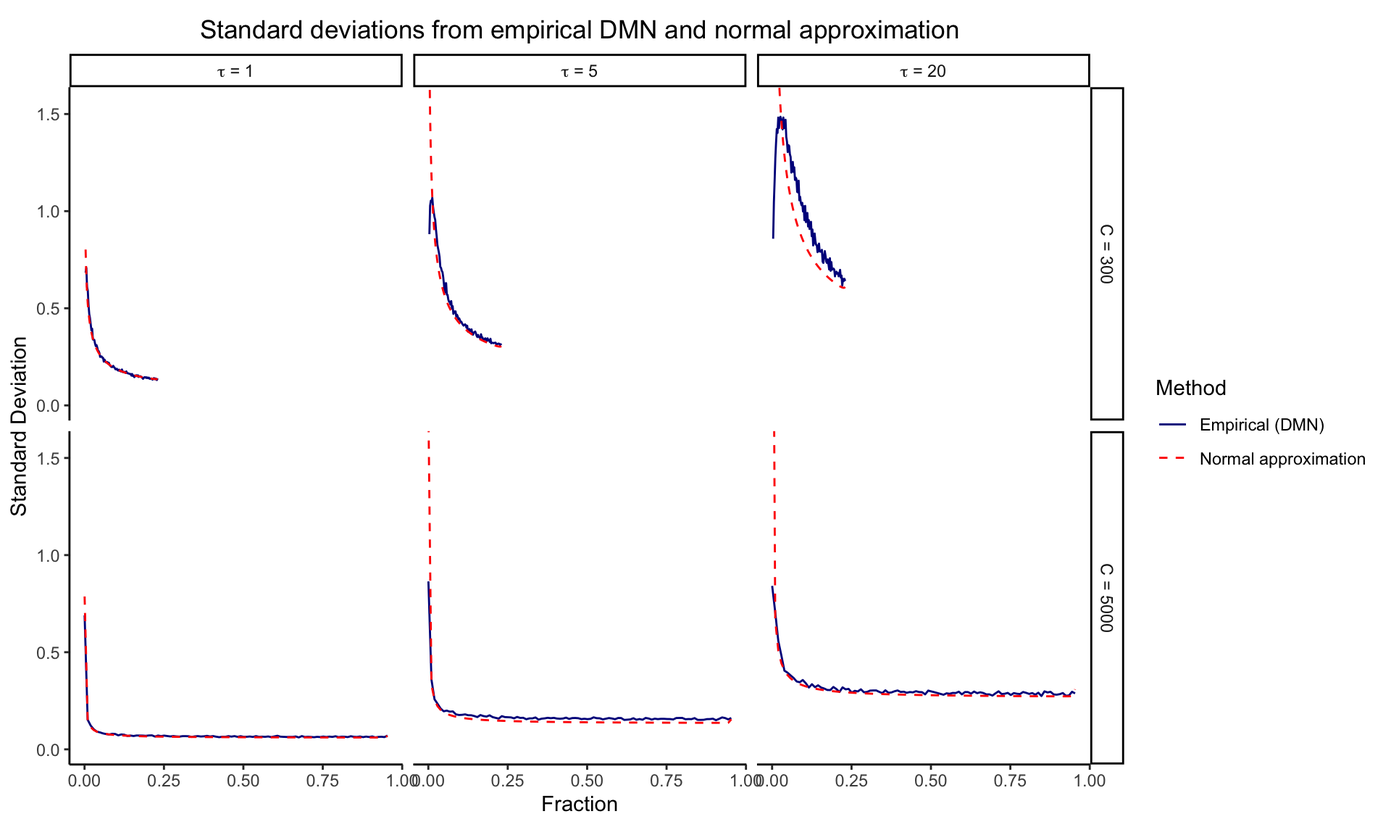
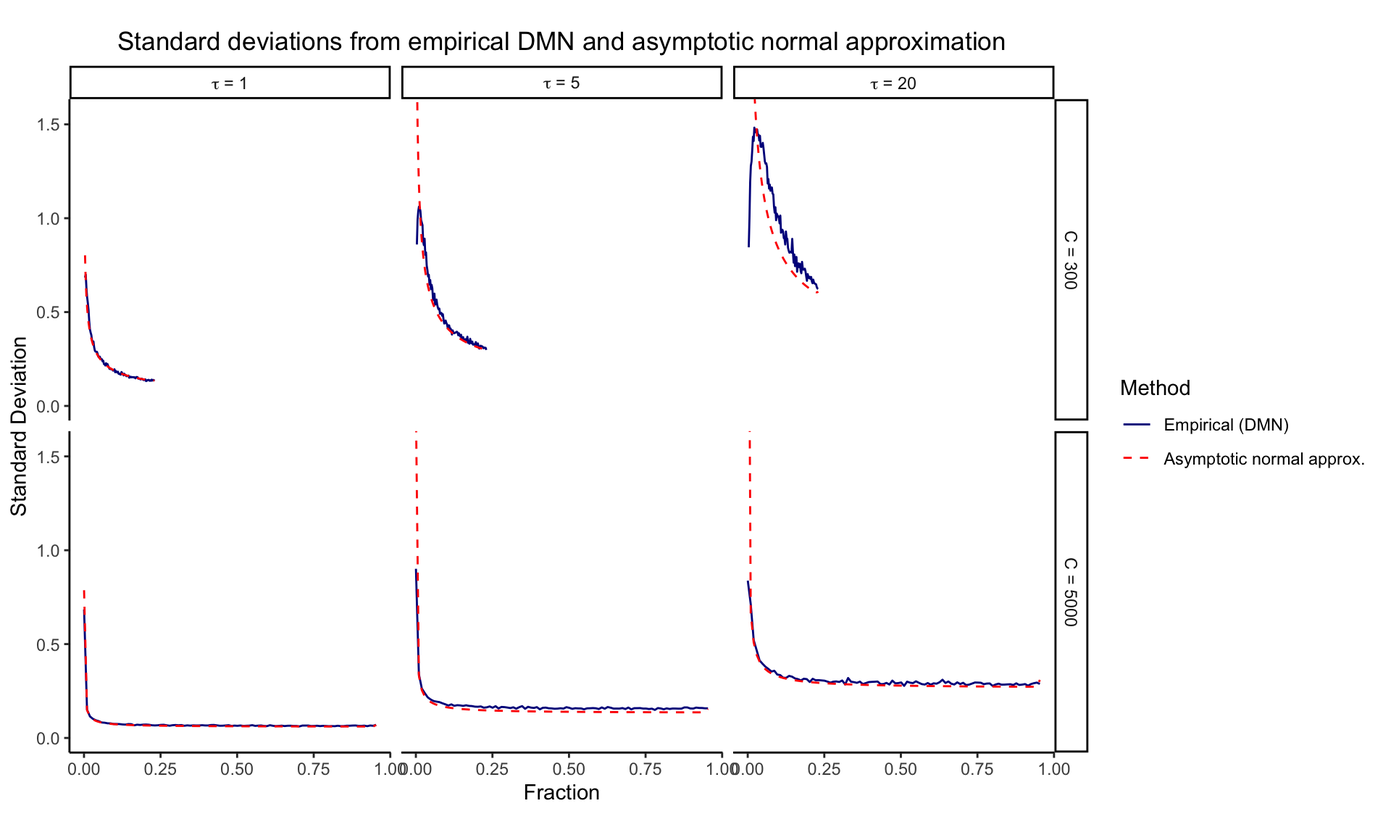
update site

diff --git a/docs/reference/clr.html b/docs/reference/clr.html
@@ -123,107 +123,107 @@ Springer.
 <span class="r-in"></span>
 <span class="r-in"><span class="co"># centered log ratio</span></span>
 <span class="r-in"><span class="fu">clr</span><span class="op">(</span><span class="va">counts</span><span class="op">)</span></span>
-<span class="r-out co"><span class="r-pr">#&gt;</span>                 cat_1        cat_2        cat_3     cat_4</span>
-<span class="r-out co"><span class="r-pr">#&gt;</span> sample_1   -0.7837943 -0.432396419  0.349304159 0.8668866</span>
-<span class="r-out co"><span class="r-pr">#&gt;</span> sample_2   -0.9848288 -0.081961115  0.068321088 0.9984689</span>
-<span class="r-out co"><span class="r-pr">#&gt;</span> sample_3   -1.6377441  0.223008289  0.423678985 0.9910568</span>
-<span class="r-out co"><span class="r-pr">#&gt;</span> sample_4   -0.6936642 -0.022495909  0.102667234 0.6134929</span>
-<span class="r-out co"><span class="r-pr">#&gt;</span> sample_5   -0.4111520 -0.411152042  0.297995479 0.5243086</span>
-<span class="r-out co"><span class="r-pr">#&gt;</span> sample_6   -0.8768811 -0.491218582  0.659353445 0.7087462</span>
-<span class="r-out co"><span class="r-pr">#&gt;</span> sample_7   -0.5080248 -0.090289607 -0.192943761 0.7912582</span>
-<span class="r-out co"><span class="r-pr">#&gt;</span> sample_8   -1.0941732 -0.103774466  0.147539962 1.0504077</span>
-<span class="r-out co"><span class="r-pr">#&gt;</span> sample_9   -1.0514715  0.001678430  0.414865585 0.6349275</span>
-<span class="r-out co"><span class="r-pr">#&gt;</span> sample_10  -0.7305383 -0.341073549  0.335813111 0.7357988</span>
-<span class="r-out co"><span class="r-pr">#&gt;</span> sample_11  -0.6218140 -0.177128151  0.270184067 0.5287581</span>
-<span class="r-out co"><span class="r-pr">#&gt;</span> sample_12  -0.8607511  0.044957508  0.202143092 0.6136505</span>
-<span class="r-out co"><span class="r-pr">#&gt;</span> sample_13  -0.9436368 -0.432811210  0.318604878 1.0578432</span>
-<span class="r-out co"><span class="r-pr">#&gt;</span> sample_14  -1.0550239  0.043588347  0.380060583 0.6313750</span>
-<span class="r-out co"><span class="r-pr">#&gt;</span> sample_15  -0.3669019 -0.308061429  0.143923695 0.5310397</span>
-<span class="r-out co"><span class="r-pr">#&gt;</span> sample_16  -0.9320791 -0.154374533  0.409094824 0.6773588</span>
-<span class="r-out co"><span class="r-pr">#&gt;</span> sample_17  -1.4153266 -0.001633253  0.394782019 1.0221778</span>
-<span class="r-out co"><span class="r-pr">#&gt;</span> sample_18  -1.4229846 -0.064861139  0.554178070 0.9336677</span>
-<span class="r-out co"><span class="r-pr">#&gt;</span> sample_19  -0.4798506  0.044673825 -0.183584827 0.6187616</span>
-<span class="r-out co"><span class="r-pr">#&gt;</span> sample_20  -0.5677451 -0.490784081  0.356513780 0.7020154</span>
-<span class="r-out co"><span class="r-pr">#&gt;</span> sample_21  -0.7615468 -0.195151281  0.368318076 0.5883800</span>
-<span class="r-out co"><span class="r-pr">#&gt;</span> sample_22  -0.8747491 -0.273975216  0.183857878 0.9648664</span>
-<span class="r-out co"><span class="r-pr">#&gt;</span> sample_23  -0.5958314 -0.318199676  0.262830207 0.6512009</span>
-<span class="r-out co"><span class="r-pr">#&gt;</span> sample_24  -0.7564910 -0.137451764  0.206319776 0.6876230</span>
-<span class="r-out co"><span class="r-pr">#&gt;</span> sample_25  -0.6789311 -0.053225244  0.035722242 0.6964341</span>
-<span class="r-out co"><span class="r-pr">#&gt;</span> sample_26  -0.7067551 -0.455440649  0.359596349 0.8025994</span>
-<span class="r-out co"><span class="r-pr">#&gt;</span> sample_27  -0.4820733 -0.559034388  0.265141055 0.7759667</span>
-<span class="r-out co"><span class="r-pr">#&gt;</span> sample_28  -1.2415739 -0.205482010  0.471404650 0.9756513</span>
-<span class="r-out co"><span class="r-pr">#&gt;</span> sample_29  -1.0523829 -0.481838009  0.460205219 1.0740157</span>
-<span class="r-out co"><span class="r-pr">#&gt;</span> sample_30  -0.4071009 -0.407100911  0.236449329 0.5777525</span>
-<span class="r-out co"><span class="r-pr">#&gt;</span> sample_31  -0.9100852 -0.246791004  0.367575298 0.7893009</span>
-<span class="r-out co"><span class="r-pr">#&gt;</span> sample_32  -0.6357143 -0.403912722  0.236124633 0.8035024</span>
-<span class="r-out co"><span class="r-pr">#&gt;</span> sample_33  -0.4723718 -0.228749690  0.052152695 0.6489688</span>
-<span class="r-out co"><span class="r-pr">#&gt;</span> sample_34  -0.7449947 -0.293009570  0.384870139 0.6531341</span>
-<span class="r-out co"><span class="r-pr">#&gt;</span> sample_35  -1.1198367  0.121876424  0.028786001 0.9691743</span>
-<span class="r-out co"><span class="r-pr">#&gt;</span> sample_36  -0.9439768 -0.063618120  0.365944540 0.6416504</span>
-<span class="r-out co"><span class="r-pr">#&gt;</span> sample_37  -1.0204143 -0.231956891  0.561994988 0.6903762</span>
-<span class="r-out co"><span class="r-pr">#&gt;</span> sample_38  -1.1830324  0.183843870  0.456710857 0.5424777</span>
-<span class="r-out co"><span class="r-pr">#&gt;</span> sample_39  -0.9016379 -0.367555390  0.634596633 0.6345966</span>
-<span class="r-out co"><span class="r-pr">#&gt;</span> sample_40  -0.7873492  0.099953963  0.175461516 0.5119338</span>
-<span class="r-out co"><span class="r-pr">#&gt;</span> sample_41  -0.3977385 -0.397738469  0.138566240 0.6569107</span>
-<span class="r-out co"><span class="r-pr">#&gt;</span> sample_42  -0.6113335 -0.023546804 -0.023546804 0.6584271</span>
-<span class="r-out co"><span class="r-pr">#&gt;</span> sample_43  -1.0242261 -0.121358350  0.345261181 0.8003232</span>
-<span class="r-out co"><span class="r-pr">#&gt;</span> sample_44  -0.5856929 -0.308061137  0.165723215 0.7280308</span>
-<span class="r-out co"><span class="r-pr">#&gt;</span> sample_45  -0.9578971  0.015552045  0.442996060 0.4993490</span>
-<span class="r-out co"><span class="r-pr">#&gt;</span> sample_46  -0.6567537 -0.358260709  0.318625951 0.6963885</span>
-<span class="r-out co"><span class="r-pr">#&gt;</span> sample_47  -0.5005224 -0.185441323 -0.132797589 0.8187613</span>
-<span class="r-out co"><span class="r-pr">#&gt;</span> sample_48  -0.3223767 -0.711841510  0.175461685 0.8587566</span>
-<span class="r-out co"><span class="r-pr">#&gt;</span> sample_49  -0.6422817 -0.742365186  0.456330561 0.9283164</span>
-<span class="r-out co"><span class="r-pr">#&gt;</span> sample_50  -0.4351304 -0.583550396  0.402266399 0.6164144</span>
-<span class="r-out co"><span class="r-pr">#&gt;</span> sample_51  -0.5730391 -0.496078085  0.442191554 0.6269257</span>
-<span class="r-out co"><span class="r-pr">#&gt;</span> sample_52  -1.0471408 -0.041618944  0.449501609 0.6392581</span>
-<span class="r-out co"><span class="r-pr">#&gt;</span> sample_53  -0.5114898 -0.440030797  0.270210816 0.6813097</span>
-<span class="r-out co"><span class="r-pr">#&gt;</span> sample_54  -0.9414877  0.031961460  0.195590884 0.7139353</span>
-<span class="r-out co"><span class="r-pr">#&gt;</span> sample_55  -0.8892002 -0.288426358  0.284919623 0.8927070</span>
-<span class="r-out co"><span class="r-pr">#&gt;</span> sample_56  -0.6722917 -0.311278326  0.396906732 0.5866633</span>
-<span class="r-out co"><span class="r-pr">#&gt;</span> sample_57  -0.6165227 -0.028736019  0.014749093 0.6305096</span>
-<span class="r-out co"><span class="r-pr">#&gt;</span> sample_58  -0.7303348 -0.407561448  0.568948144 0.5689481</span>
-<span class="r-out co"><span class="r-pr">#&gt;</span> sample_59  -0.6818427 -0.507489284  0.280968076 0.9083639</span>
-<span class="r-out co"><span class="r-pr">#&gt;</span> sample_60  -1.1364367 -0.146037987  0.473001221 0.8094735</span>
-<span class="r-out co"><span class="r-pr">#&gt;</span> sample_61  -0.7918062 -0.302257997  0.195580432 0.8984838</span>
-<span class="r-out co"><span class="r-pr">#&gt;</span> sample_62  -0.6922453 -0.114167473  0.215311728 0.5911011</span>
-<span class="r-out co"><span class="r-pr">#&gt;</span> sample_63  -0.7929530  0.273398411  0.094350180 0.4252044</span>
-<span class="r-out co"><span class="r-pr">#&gt;</span> sample_64  -0.6373225  0.114093549  0.035621934 0.4876071</span>
-<span class="r-out co"><span class="r-pr">#&gt;</span> sample_65  -0.8403516 -0.071218550  0.185501297 0.7260689</span>
-<span class="r-out co"><span class="r-pr">#&gt;</span> sample_66  -0.4669653 -0.337753612  0.173072011 0.6316469</span>
-<span class="r-out co"><span class="r-pr">#&gt;</span> sample_67  -1.2671623 -0.109709463  0.509329746 0.8675420</span>
-<span class="r-out co"><span class="r-pr">#&gt;</span> sample_68  -0.5342645 -0.166539759  0.020046197 0.6807581</span>
-<span class="r-out co"><span class="r-pr">#&gt;</span> sample_69  -1.1142462 -0.245208362  0.463939160 0.8955154</span>
-<span class="r-out co"><span class="r-pr">#&gt;</span> sample_70  -0.7128727 -0.390099299  0.285656139 0.8173158</span>
-<span class="r-out co"><span class="r-pr">#&gt;</span> sample_71  -0.3993064 -0.336786081  0.058526655 0.6775659</span>
-<span class="r-out co"><span class="r-pr">#&gt;</span> sample_72  -0.9632451 -0.452419492  0.471839409 0.9438252</span>
-<span class="r-out co"><span class="r-pr">#&gt;</span> sample_73  -0.8071506 -0.255082015  0.218702337 0.8435303</span>
-<span class="r-out co"><span class="r-pr">#&gt;</span> sample_74  -0.4439984 -0.314786653 -0.004631725 0.7634168</span>
-<span class="r-out co"><span class="r-pr">#&gt;</span> sample_75  -0.7923767 -0.440978786  0.437571618 0.7957838</span>
-<span class="r-out co"><span class="r-pr">#&gt;</span> sample_76  -1.2482131  0.017453307  0.204039263 1.0267205</span>
-<span class="r-out co"><span class="r-pr">#&gt;</span> sample_77  -0.4034581 -0.470149439  0.367247350 0.5063602</span>
-<span class="r-out co"><span class="r-pr">#&gt;</span> sample_78  -1.2262770 -0.256876394  0.453365220 1.0297881</span>
-<span class="r-out co"><span class="r-pr">#&gt;</span> sample_79  -0.9565558 -0.445730130  0.412931489 0.9893544</span>
-<span class="r-out co"><span class="r-pr">#&gt;</span> sample_80  -1.2419715  0.023694823  0.166795667 1.0514811</span>
-<span class="r-out co"><span class="r-pr">#&gt;</span> sample_81  -0.9070705 -0.243776249  0.337253634 0.8135931</span>
-<span class="r-out co"><span class="r-pr">#&gt;</span> sample_82  -1.3089296  0.184995435  0.436309863 0.6876243</span>
-<span class="r-out co"><span class="r-pr">#&gt;</span> sample_83  -1.1313127 -0.140913982  0.414611820 0.8576148</span>
-<span class="r-out co"><span class="r-pr">#&gt;</span> sample_84  -0.7467273 -0.472290501  0.200653972 1.0183639</span>
-<span class="r-out co"><span class="r-pr">#&gt;</span> sample_85  -0.6191178 -0.227075705  0.366699002 0.4794945</span>
-<span class="r-out co"><span class="r-pr">#&gt;</span> sample_86  -1.0509674  0.132802665  0.211274281 0.7068905</span>
-<span class="r-out co"><span class="r-pr">#&gt;</span> sample_87  -0.6361647  0.152292677 -0.004892907 0.4887649</span>
-<span class="r-out co"><span class="r-pr">#&gt;</span> sample_88  -1.0147081  0.038441785  0.083904159 0.8923622</span>
-<span class="r-out co"><span class="r-pr">#&gt;</span> sample_89  -0.9294581 -0.099109795  0.280379827 0.7481881</span>
-<span class="r-out co"><span class="r-pr">#&gt;</span> sample_90  -0.6789311 -0.053225244  0.035722242 0.6964341</span>
-<span class="r-out co"><span class="r-pr">#&gt;</span> sample_91  -1.2680822  0.341355697 -0.002415842 0.9291424</span>
-<span class="r-out co"><span class="r-pr">#&gt;</span> sample_92  -1.6278540  0.089797487  0.537109705 1.0009468</span>
-<span class="r-out co"><span class="r-pr">#&gt;</span> sample_93  -0.6361986 -0.216344784 -0.010492730 0.8630361</span>
-<span class="r-out co"><span class="r-pr">#&gt;</span> sample_94  -0.7221233  0.185433718  0.219919895 0.3167697</span>
-<span class="r-out co"><span class="r-pr">#&gt;</span> sample_95  -0.5359044 -0.619285983  0.356093665 0.7990967</span>
-<span class="r-out co"><span class="r-pr">#&gt;</span> sample_96  -0.7522596 -0.185864084  0.246269271 0.6918544</span>
-<span class="r-out co"><span class="r-pr">#&gt;</span> sample_97  -0.9618235  0.055110770  0.439069673 0.4676430</span>
-<span class="r-out co"><span class="r-pr">#&gt;</span> sample_98  -0.5958314 -0.318199676  0.262830207 0.6512009</span>
-<span class="r-out co"><span class="r-pr">#&gt;</span> sample_99  -1.0835219 -0.281175416  0.321820668 1.0428766</span>
-<span class="r-out co"><span class="r-pr">#&gt;</span> sample_100 -0.9994380 -0.152140159  0.224337412 0.9272408</span>
+<span class="r-out co"><span class="r-pr">#&gt;</span>                 cat_1         cat_2        cat_3     cat_4</span>
+<span class="r-out co"><span class="r-pr">#&gt;</span> sample_1   -0.5399018 -0.2248207901  0.134553211 0.6301694</span>
+<span class="r-out co"><span class="r-pr">#&gt;</span> sample_2   -0.9933600 -0.0378485532  0.059789916 0.9714186</span>
+<span class="r-out co"><span class="r-pr">#&gt;</span> sample_3   -0.9216047  0.0063821057  0.095329592 0.8198930</span>
+<span class="r-out co"><span class="r-pr">#&gt;</span> sample_4   -0.9426017 -0.1122534261  0.486864805 0.5679903</span>
+<span class="r-out co"><span class="r-pr">#&gt;</span> sample_5   -0.1795238 -0.5472485545  0.127206493 0.5995658</span>
+<span class="r-out co"><span class="r-pr">#&gt;</span> sample_6   -0.5315218 -0.2164407332  0.064461652 0.6835009</span>
+<span class="r-out co"><span class="r-pr">#&gt;</span> sample_7   -0.5472486 -0.1795237744  0.127206493 0.5995658</span>
+<span class="r-out co"><span class="r-pr">#&gt;</span> sample_8   -0.5330673 -0.3179559349 -0.088381493 0.9394047</span>
+<span class="r-out co"><span class="r-pr">#&gt;</span> sample_9   -0.5992439 -0.2072018065  0.113705914 0.6927398</span>
+<span class="r-out co"><span class="r-pr">#&gt;</span> sample_10  -0.8510963 -0.1319736282  0.409157345 0.5739126</span>
+<span class="r-out co"><span class="r-pr">#&gt;</span> sample_11  -1.1289149 -0.0303026422  0.237961344 0.9212562</span>
+<span class="r-out co"><span class="r-pr">#&gt;</span> sample_12  -0.6968528 -0.1187749331  0.278526864 0.5371009</span>
+<span class="r-out co"><span class="r-pr">#&gt;</span> sample_13  -0.8560653 -0.0393041709  0.277033157 0.6183363</span>
+<span class="r-out co"><span class="r-pr">#&gt;</span> sample_14  -1.0903343 -0.1587761190  0.194863921 1.0542465</span>
+<span class="r-out co"><span class="r-pr">#&gt;</span> sample_15  -0.6881128  0.1082186120 -0.062406905 0.6423011</span>
+<span class="r-out co"><span class="r-pr">#&gt;</span> sample_16  -0.4530359  0.0047971540  0.044802489 0.4034363</span>
+<span class="r-out co"><span class="r-pr">#&gt;</span> sample_17  -1.2942538  0.0214229739  0.570530784 0.7023001</span>
+<span class="r-out co"><span class="r-pr">#&gt;</span> sample_18  -0.4960781 -0.5730391259  0.442191554 0.6269257</span>
+<span class="r-out co"><span class="r-pr">#&gt;</span> sample_19  -0.5687557 -0.1033924561  0.246281292 0.4258669</span>
+<span class="r-out co"><span class="r-pr">#&gt;</span> sample_20  -0.6573235 -0.1818997646  0.057329925 0.7818933</span>
+<span class="r-out co"><span class="r-pr">#&gt;</span> sample_21  -0.3403519 -0.4785022558 -0.060767055 0.8796212</span>
+<span class="r-out co"><span class="r-pr">#&gt;</span> sample_22  -0.7320793 -0.2212537161  0.155223855 0.7981092</span>
+<span class="r-out co"><span class="r-pr">#&gt;</span> sample_23  -0.8244205 -0.2135113889  0.274191817 0.7637400</span>
+<span class="r-out co"><span class="r-pr">#&gt;</span> sample_24  -1.0446204  0.0539919283  0.254662624 0.7359658</span>
+<span class="r-out co"><span class="r-pr">#&gt;</span> sample_25  -0.5346779 -0.3340071634  0.280359139 0.5883259</span>
+<span class="r-out co"><span class="r-pr">#&gt;</span> sample_26  -0.6142297 -0.1695438321  0.174227707 0.6095458</span>
+<span class="r-out co"><span class="r-pr">#&gt;</span> sample_27  -0.9618582  0.2122616114  0.175220340 0.5743763</span>
+<span class="r-out co"><span class="r-pr">#&gt;</span> sample_28  -0.8931296 -0.2923557121  0.316708351 0.8687769</span>
+<span class="r-out co"><span class="r-pr">#&gt;</span> sample_29  -0.8110359 -0.3214876808  0.355398979 0.7771246</span>
+<span class="r-out co"><span class="r-pr">#&gt;</span> sample_30  -0.9292059 -0.0488471377  0.207872709 0.7701803</span>
+<span class="r-out co"><span class="r-pr">#&gt;</span> sample_31  -1.1210263 -0.2519884388  0.548130861 0.8248839</span>
+<span class="r-out co"><span class="r-pr">#&gt;</span> sample_32  -1.2985260  0.1953990166  0.310911904 0.7922151</span>
+<span class="r-out co"><span class="r-pr">#&gt;</span> sample_33  -0.4166331 -0.3541127797  0.226917103 0.5438288</span>
+<span class="r-out co"><span class="r-pr">#&gt;</span> sample_34  -1.2695612  0.1392060195  0.182691131 0.9476640</span>
+<span class="r-out co"><span class="r-pr">#&gt;</span> sample_35  -0.9314963 -0.0035095307  0.167115986 0.7678898</span>
+<span class="r-out co"><span class="r-pr">#&gt;</span> sample_36  -0.7668946 -0.1478553451  0.331717735 0.5830322</span>
+<span class="r-out co"><span class="r-pr">#&gt;</span> sample_37  -0.7748172  0.1879935051 -0.012677190 0.5995009</span>
+<span class="r-out co"><span class="r-pr">#&gt;</span> sample_38  -1.4655305  0.2290652457  0.480379674 0.7560856</span>
+<span class="r-out co"><span class="r-pr">#&gt;</span> sample_39  -0.6234263 -0.0811019998  0.127989798 0.5765385</span>
+<span class="r-out co"><span class="r-pr">#&gt;</span> sample_40  -0.6385149 -0.0072431003  0.185660566 0.4600974</span>
+<span class="r-out co"><span class="r-pr">#&gt;</span> sample_41  -0.4208583  0.0769801311 -0.243927589 0.5878058</span>
+<span class="r-out co"><span class="r-pr">#&gt;</span> sample_42  -1.2415792 -0.0841263889  0.292351182 1.0333544</span>
+<span class="r-out co"><span class="r-pr">#&gt;</span> sample_43  -0.8536411  0.0520675186  0.133745550 0.6678280</span>
+<span class="r-out co"><span class="r-pr">#&gt;</span> sample_44  -0.8188780  0.0868305824 -0.099755373 0.8318028</span>
+<span class="r-out co"><span class="r-pr">#&gt;</span> sample_45  -1.1333994  0.1083137763  0.108313776 0.9167718</span>
+<span class="r-out co"><span class="r-pr">#&gt;</span> sample_46  -0.8601164 -0.0433553027  0.338579308 0.5648924</span>
+<span class="r-out co"><span class="r-pr">#&gt;</span> sample_47  -0.7330477 -0.3435829801  0.365564542 0.7110662</span>
+<span class="r-out co"><span class="r-pr">#&gt;</span> sample_48  -0.9158356  0.0121511658  0.057613540 0.8460709</span>
+<span class="r-out co"><span class="r-pr">#&gt;</span> sample_49  -0.4996353 -0.1533590799  0.176120121 0.4768743</span>
+<span class="r-out co"><span class="r-pr">#&gt;</span> sample_50  -1.0979540  0.0006583282  0.050668749 1.0466269</span>
+<span class="r-out co"><span class="r-pr">#&gt;</span> sample_51  -0.7092353 -0.1984096798  0.007442374 0.9002026</span>
+<span class="r-out co"><span class="r-pr">#&gt;</span> sample_52  -1.1203781  0.0758726309  0.075872631 0.9686329</span>
+<span class="r-out co"><span class="r-pr">#&gt;</span> sample_53  -0.9915647  0.1070476303 -0.088696947 0.9732140</span>
+<span class="r-out co"><span class="r-pr">#&gt;</span> sample_54  -0.5679696 -0.4195496029  0.220487752 0.7670315</span>
+<span class="r-out co"><span class="r-pr">#&gt;</span> sample_55  -1.1017783 -0.3708908107  0.650760437 0.8219087</span>
+<span class="r-out co"><span class="r-pr">#&gt;</span> sample_56  -0.5775446 -0.4291246422  0.314453392 0.6922159</span>
+<span class="r-out co"><span class="r-pr">#&gt;</span> sample_57  -1.0268426  0.0717696720  0.115254784 0.8398182</span>
+<span class="r-out co"><span class="r-pr">#&gt;</span> sample_58  -0.9259636 -0.0956152710  0.248156268 0.7734226</span>
+<span class="r-out co"><span class="r-pr">#&gt;</span> sample_59  -1.2756197 -0.0625970778  0.500872279 0.8373445</span>
+<span class="r-out co"><span class="r-pr">#&gt;</span> sample_60  -0.8046081 -0.3150599030  0.294004160 0.8256639</span>
+<span class="r-out co"><span class="r-pr">#&gt;</span> sample_61  -0.9584920  0.1401203036  0.215627856 0.6027438</span>
+<span class="r-out co"><span class="r-pr">#&gt;</span> sample_62  -1.0530566  0.0455556991  0.349767073 0.6577338</span>
+<span class="r-out co"><span class="r-pr">#&gt;</span> sample_63  -0.9095558  0.1890564478 -0.131851272 0.8523507</span>
+<span class="r-out co"><span class="r-pr">#&gt;</span> sample_64  -0.4315853 -0.2020108336  0.104719434 0.5288767</span>
+<span class="r-out co"><span class="r-pr">#&gt;</span> sample_65  -0.6794255 -0.2595716140  0.359467594 0.5795295</span>
+<span class="r-out co"><span class="r-pr">#&gt;</span> sample_66  -0.4201002 -0.3534088179 -0.073823956 0.8473330</span>
+<span class="r-out co"><span class="r-pr">#&gt;</span> sample_67  -0.4923841 -0.4923840862  0.219112233 0.7656559</span>
+<span class="r-out co"><span class="r-pr">#&gt;</span> sample_68  -0.8107173 -0.1442383399  0.094991349 0.8599643</span>
+<span class="r-out co"><span class="r-pr">#&gt;</span> sample_69  -0.6744931 -0.3134797716  0.480472108 0.5075008</span>
+<span class="r-out co"><span class="r-pr">#&gt;</span> sample_70  -0.6882420 -0.2987772055  0.028435706 0.9585835</span>
+<span class="r-out co"><span class="r-pr">#&gt;</span> sample_71  -1.2917219  0.1170453555  0.353434134 0.8212424</span>
+<span class="r-out co"><span class="r-pr">#&gt;</span> sample_72  -0.7974350 -0.2453663953  0.149946341 0.8928550</span>
+<span class="r-out co"><span class="r-pr">#&gt;</span> sample_73  -0.8680776 -0.3339950803  0.230534722 0.9715379</span>
+<span class="r-out co"><span class="r-pr">#&gt;</span> sample_74  -0.6667645 -0.2469106808  0.205074443 0.7086008</span>
+<span class="r-out co"><span class="r-pr">#&gt;</span> sample_75  -0.7564910 -0.1374517636  0.206319776 0.6876230</span>
+<span class="r-out co"><span class="r-pr">#&gt;</span> sample_76  -0.5813957 -0.3037639162  0.131554155 0.7536054</span>
+<span class="r-out co"><span class="r-pr">#&gt;</span> sample_77  -0.6535484 -0.2925350842  0.181249268 0.7648342</span>
+<span class="r-out co"><span class="r-pr">#&gt;</span> sample_78  -0.8710924 -0.0933878634 -0.040744130 1.0052244</span>
+<span class="r-out co"><span class="r-pr">#&gt;</span> sample_79  -0.9987027 -0.2102453047  0.300580319 0.9083677</span>
+<span class="r-out co"><span class="r-pr">#&gt;</span> sample_80  -0.9956235 -0.2696864704  0.373863769 0.8914462</span>
+<span class="r-out co"><span class="r-pr">#&gt;</span> sample_81  -0.9201158 -0.0397571051  0.138491126 0.8213818</span>
+<span class="r-out co"><span class="r-pr">#&gt;</span> sample_82  -0.9563038  0.3848701385  0.017145358 0.5542883</span>
+<span class="r-out co"><span class="r-pr">#&gt;</span> sample_83  -0.9556235  0.0613107156  0.288700558 0.6056123</span>
+<span class="r-out co"><span class="r-pr">#&gt;</span> sample_84  -0.4851002 -0.2970479484  0.290738716 0.4914094</span>
+<span class="r-out co"><span class="r-pr">#&gt;</span> sample_85  -0.6153834  0.0103225231 -0.316890388 0.9219512</span>
+<span class="r-out co"><span class="r-pr">#&gt;</span> sample_86  -1.4777029  0.3324057295  0.615531985 0.5297652</span>
+<span class="r-out co"><span class="r-pr">#&gt;</span> sample_87  -1.0204143 -0.2319568914  0.561994988 0.6903762</span>
+<span class="r-out co"><span class="r-pr">#&gt;</span> sample_88  -1.6109030 -0.0014650864  0.554060716 1.0583074</span>
+<span class="r-out co"><span class="r-pr">#&gt;</span> sample_89  -0.9140702 -0.1363656245  0.223008376 0.8274274</span>
+<span class="r-out co"><span class="r-pr">#&gt;</span> sample_90  -1.0497562  0.0033937029  0.385328314 0.6610342</span>
+<span class="r-out co"><span class="r-pr">#&gt;</span> sample_91  -0.6773902 -0.5030368067  0.248379282 0.9320477</span>
+<span class="r-out co"><span class="r-pr">#&gt;</span> sample_92  -0.9456921 -0.0653333921  0.395481811 0.6155437</span>
+<span class="r-out co"><span class="r-pr">#&gt;</span> sample_93  -0.5399018 -0.2248207901  0.134553211 0.6301694</span>
+<span class="r-out co"><span class="r-pr">#&gt;</span> sample_94  -0.8237404 -0.2716718477  0.374955317 0.7204570</span>
+<span class="r-out co"><span class="r-pr">#&gt;</span> sample_95  -0.6790018 -0.1509343902  0.155795877 0.6741403</span>
+<span class="r-out co"><span class="r-pr">#&gt;</span> sample_96  -0.9744202 -0.3866334960  0.428403502 0.9326502</span>
+<span class="r-out co"><span class="r-pr">#&gt;</span> sample_97  -0.7688686 -0.3460117433  0.136840028 0.9780403</span>
+<span class="r-out co"><span class="r-pr">#&gt;</span> sample_98  -0.6386125 -0.3401195213  0.157718907 0.8210131</span>
+<span class="r-out co"><span class="r-pr">#&gt;</span> sample_99  -0.5537985 -0.1360632968  0.120656550 0.5692052</span>
+<span class="r-out co"><span class="r-pr">#&gt;</span> sample_100 -0.5569610 -0.1392257514  0.154535367 0.5416513</span>
 <span class="r-in"></span>
 </code></pre></div>
     </div>

diff --git a/docs/articles/crumblr_theory.html b/docs/articles/crumblr_theory.html
@@ -95,7 +95,7 @@
                         <h4 data-toc-skip class="author">Developed by <a href="http://gabrielhoffman.github.io/" class="external-link">Gabriel Hoffman</a>
 </h4>
             
-            <h4 data-toc-skip class="date">Run on 2022-02-03 15:33:44</h4>
+            <h4 data-toc-skip class="date">Run on 2022-02-03 20:00:25</h4>
       
       <small class="dont-index">Source: <a href="https://github.com/GabrielHoffman/crumblr/blob/HEAD/vignettes/crumblr_theory.Rmd" class="external-link"><code>vignettes/crumblr_theory.Rmd</code></a></small>
       <div class="hidden name"><code>crumblr_theory.Rmd</code></div>
@@ -124,16 +124,29 @@ rmarkdown::render("crumblr_theory.Rmd");
 
 
 --->
-<p>Let the vector <span class="math inline">\({\bf p}\)</span> being the true fractions across <span class="math inline">\(D\)</span> categories. With <span class="math inline">\(C\)</span> total counts sampled from a Dirichlet multinomial distribution with overdispersion <span class="math inline">\(\tau\)</span>, the <a href="https://rdrr.io/cran/compositions/man/clr.html" class="external-link">centered log ratio</a> (CLR) of the observed counts <span class="math inline">\({\bf c}\)</span> with estimated fractions <span class="math inline">\({\bf \hat p}\)</span> is<br><span class="math display">\[
+<div style="text-align: justify;">
+<p>Let the vector <span class="math inline">\({\bf p}\)</span> be the true fractions across <span class="math inline">\(D\)</span> categories. Consider <span class="math inline">\(C\)</span> total counts sampled from a Dirichlet-multinomial (DMN) distribution with overdispersion <span class="math inline">\(\tau\)</span>, <span class="math inline">\(\tau=1\)</span> reduces to the multinomial distribution. The <a href="https://rdrr.io/cran/compositions/man/clr.html" class="external-link">centered log ratio</a> (CLR) of the estimated fractions <span class="math inline">\({\bf \hat p}\)</span> is</p>
+<p><span class="math display">\[\begin{equation}
+\tag{1}
 \text{clr}_i({\bf \hat p}) = \log(\hat p_i) - \frac{1}{D}\sum_{j=1}^D \log(\hat p_j)
-\]</span> with sampling variance <span class="math display">\[
-\text{var}[\text{clr}_i({\bf \hat p})] =  \frac{\tau}{C} \left[ \frac{1}{\hat p_i} - \frac{2}{ D \hat p_i} + \frac{1}{D^2}\sum_{j=1}^D \frac{1}{\hat p_j}  \right] 
-\]</span></p>
-<p>The sampling variance is derived from asymototic theory, so we examine its behavior for finite total counts, <span class="math inline">\(n\)</span>. Here we evalute the emprical variance from <span class="math inline">\(100,000\)</span> draws from a Dirichlet multinomial distribution while varying <span class="math inline">\(\tau\)</span>, <span class="math inline">\(C\)</span> as well as the parameters of the distribution. A pseudocount of 0.5 is added to the observed counts since the asymptotic theory is not defined for counts of zero. The grey line indicates 3 counts, so for <span class="math inline">\(nC30\)</span> the line indicates <span class="math inline">\(3/30=0.1\)</span>. For the first case of <span class="math inline">\(D=2\)</span>, the empirical and asymptotic variances are symmetric around <span class="math inline">\(1/2\)</span>. In the second case of <span class="math inline">\(D=8\)</span>, the variances are no longer symmetric.</p>
-<p>The asymptotic standard deviation shows remarkable agreement with the emprical results even for small values of <span class="math inline">\(n\)</span>, <em>when at least 2 counts are observed</em>. In practice, it is often reasonable to assume a sufficient number of counts before a variable is included in an analysis. Importantly, with less than 2 counts the asymptotic theory gives a <em>larger</em> standard deviation than the emprical results. Therefore, this approach is conservative and will not underestimate the true amount of variation.</p>
-<p>The normal approximation is accurate for small overdispersion <span class="math inline">\(\tau\)</span>, large total counts <span class="math inline">\(C\)</span>, and large proportions <span class="math inline">\(p\)</span>.</p>
-<p>The asymptotic approximation is best for total counts &gt; 30, and counts per cell &gt; 7. Need to add filter for cell types. This is due to sum(1/p)</p>
-<p>speed fit into existing workflows for limma/dream/variancePartition/PCA</p>
+\end{equation}\]</span> and we show that the sampling variance is</p>
+<p><span class="math display">\[\begin{equation}
+\tag{2}
+\text{var}[\text{clr}_i({\bf \hat p})] =  \frac{\tau}{C} \left[ \frac{1}{\hat p_i} - \frac{2}{ D \hat p_i} + \frac{1}{D^2}\sum_{j=1}^D \frac{1}{\hat p_j}  \right]. \label{eqn2} 
+\end{equation}\]</span></p>
+<p>The sampling variance is derived from asymototic theory, so we examine its behavior for finite total counts, <span class="math inline">\(n\)</span>. Here we evalute the emprical variance from <span class="math inline">\(100,000\)</span> draws from a Dirichlet-multinomial distribution while varying <span class="math inline">\(\tau\)</span>, <span class="math inline">\(C\)</span>, and the parameters of the distribution. A pseudocount of 0.5 is added to the observed counts since the asymptotic theory is not defined for counts of zero. See plots below.</p>
+<!---
+The grey line indicates 3 counts, so for $nC30$ the line indicates $3/30=0.1$.  For the first case of $D=2$, the empirical and asymptotic variances are symmetric around $1/2$.  In the second case of $D=8$, the variances are no longer symmetric.
+--->
+<p>The asymptotic standard deviation shows remarkable agreement with the emprical results even for small values of <span class="math inline">\(C\)</span>, <em>when at least 2 counts are observed</em>. In practice, it is often reasonable to assume a sufficient number of counts before a variable is included in an analysis. Importantly, with less than 2 counts the asymptotic theory gives a <em>larger</em> standard deviation than the emprical results. Therefore, this approach is conservative and should not underestimate the true amount of variation. The asymptotic normal approximation is most accurate for large total counts <span class="math inline">\(C\)</span>, large proportions <span class="math inline">\(p\)</span>, and small overdispersion <span class="math inline">\(\tau\)</span>.</p>
+</div>
+<div class="section level4">
+<h4 id="crumblr-is-an-important-special-case">
+<code>crumblr</code> is an important special case<a class="anchor" aria-label="anchor" href="#crumblr-is-an-important-special-case"></a>
+</h4>
+<p>Based on Equation (2), the variance of the CLR-transformed proportions is a <em>linear</em> function of <span class="math inline">\(\tau\)</span>. Importantly, downstream analysis of the CLR-transformed proportions with a precision-weighted linear (mixed) model or a variance stabilizing transform depends only on the <em>relative</em> variances. Since relative variances are invariant to the scale of <span class="math inline">\(\tau\)</span>, for these applications the value of <span class="math inline">\(\tau\)</span> can be set to 1 instead of being estimated from the data.</p>
+<p>For other applications, <code>crumblr</code> can estimate <span class="math inline">\(\tau\)</span> from the data by using <code>crumblr(counts, tau=NULL)</code>. This calls <code><a href="../reference/dmn.mle.html">dmn.mle()</a></code> to estimate the parameters of the DMN distribution and is substantially faster than alternatives.</p>
+</div>
 <div class="section level3">
 <h3 id="d2-categories">D=2 categories<a class="anchor" aria-label="anchor" href="#d2-categories"></a>
 </h3>

diff --git a/docs/reference/crumblr.html b/docs/reference/crumblr.html
@@ -133,11 +133,11 @@
 <span class="r-in"><span class="va">fit</span> <span class="op">=</span> <span class="fu"><a href="https://rdrr.io/pkg/limma/man/ebayes.html" class="external-link">eBayes</a></span><span class="op">(</span><span class="va">fit</span><span class="op">)</span></span>
 <span class="r-in"></span>
 <span class="r-in"><span class="fu"><a href="https://rdrr.io/pkg/limma/man/toptable.html" class="external-link">topTable</a></span><span class="op">(</span><span class="va">fit</span>, coef<span class="op">=</span><span class="st">"Age"</span>, sort.by<span class="op">=</span><span class="st">"none"</span><span class="op">)</span></span>
-<span class="r-out co"><span class="r-pr">#&gt;</span>               logFC    AveExpr         t    P.Value adj.P.Val         B</span>
-<span class="r-out co"><span class="r-pr">#&gt;</span> cat_1  0.0009263681 -0.8431105  0.397430 0.69126672 0.6912667 -8.275376</span>
-<span class="r-out co"><span class="r-pr">#&gt;</span> cat_2 -0.0021044312 -0.1590499 -1.150286 0.25072719 0.4060792 -7.935065</span>
-<span class="r-out co"><span class="r-pr">#&gt;</span> cat_3  0.0030539802  0.2435378  1.897102 0.05854918 0.2341967 -6.925270</span>
-<span class="r-out co"><span class="r-pr">#&gt;</span> cat_4 -0.0014550033  0.7586227 -1.028052 0.30455941 0.4060792 -8.324708</span>
+<span class="r-out co"><span class="r-pr">#&gt;</span>              logFC    AveExpr           t   P.Value adj.P.Val         B</span>
+<span class="r-out co"><span class="r-pr">#&gt;</span> cat_1  0.001887032 -0.8690468  0.77091269 0.4412231 0.6738469 -8.008429</span>
+<span class="r-out co"><span class="r-pr">#&gt;</span> cat_2 -0.001570499 -0.1457406 -0.83096266 0.4065006 0.6738469 -8.218779</span>
+<span class="r-out co"><span class="r-pr">#&gt;</span> cat_3 -0.001108521  0.2602784 -0.66665432 0.5053851 0.6738469 -8.469765</span>
+<span class="r-out co"><span class="r-pr">#&gt;</span> cat_4 -0.000057023  0.7545089 -0.03892457 0.9689703 0.9689703 -8.817811</span>
 <span class="r-in"></span>
 </code></pre></div>
     </div>

diff --git a/docs/reference/plotScatterDensity.html b/docs/reference/plotScatterDensity.html
@@ -89,7 +89,7 @@
     <div id="ref-examples">
     <h2>Examples</h2>
     <div class="sourceCode"><pre class="sourceCode r"><code><span class="r-in"><span class="co"># simulate data</span></span>
-<span class="r-in"><span class="va">M</span> <span class="op">=</span> <span class="fu">rmvnorm</span><span class="op">(</span><span class="fl">1000</span>, mu<span class="op">=</span><span class="fu"><a href="https://rdrr.io/r/base/c.html" class="external-link">c</a></span><span class="op">(</span><span class="fl">0</span>,<span class="fl">0</span><span class="op">)</span>, sigma<span class="op">=</span><span class="fu"><a href="https://rdrr.io/r/base/diag.html" class="external-link">diag</a></span><span class="op">(</span><span class="fl">1</span>,<span class="fl">2</span><span class="op">)</span><span class="op">)</span></span>
+<span class="r-in"><span class="va">M</span> <span class="op">=</span> <span class="fu">Rfast</span><span class="fu">::</span><span class="fu"><a href="https://rdrr.io/pkg/Rfast/man/rmvnorm.html" class="external-link">rmvnorm</a></span><span class="op">(</span><span class="fl">1000</span>, mu<span class="op">=</span><span class="fu"><a href="https://rdrr.io/r/base/c.html" class="external-link">c</a></span><span class="op">(</span><span class="fl">0</span>,<span class="fl">0</span><span class="op">)</span>, sigma<span class="op">=</span><span class="fu"><a href="https://rdrr.io/r/base/diag.html" class="external-link">diag</a></span><span class="op">(</span><span class="fl">1</span>,<span class="fl">2</span><span class="op">)</span><span class="op">)</span></span>
 <span class="r-in"></span>
 <span class="r-in"><span class="co"># create 2D density plot</span></span>
 <span class="r-in"><span class="fu">plotScatterDensity</span><span class="op">(</span><span class="va">M</span><span class="op">[</span>,<span class="fl">1</span><span class="op">]</span>, <span class="va">M</span><span class="op">[</span>,<span class="fl">2</span><span class="op">]</span><span class="op">)</span></span>

diff --git a/docs/index.html b/docs/index.html
@@ -91,10 +91,10 @@
       </header><div class="row">
   <div class="contents col-md-9">
 
-<div class="section level2">
-<h2 id="count-ratio-uncertainty-modeling-based-linear-regression-">
+<div class="section level3">
+<h3 id="count-ratio-uncertainty-modeling-based-linear-regression-">
 <u>C</u>ount <u>r</u>atio <u>u</u>ncertainty <u>m</u>odeling <u>b</u>ased <u>l</u>inear <u>r</u>egression <img src="reference/figures/logo.png" align="right" alt="" width="120" style="padding-left:20px;"><a class="anchor" aria-label="anchor" href="#count-ratio-uncertainty-modeling-based-linear-regression-"></a>
-</h2>
+</h3>
 <div style="text-align: justify;">
 <p>The <code>crumblr</code> package enables analysis of count ratio data using precision-weighted linear (mixed) models. <code>crumblr</code>’s fast, normal approximation of transformed count data from a Dirichlet-multinomial model allows use of standard workflows to analyize count ratio data while modeling heteroskedasticity.</p>
 <div class="section level2">

diff --git a/docs/articles/crumblr.html b/docs/articles/crumblr.html
@@ -95,7 +95,7 @@
                         <h4 data-toc-skip class="author">Developed by <a href="http://gabrielhoffman.github.io/" class="external-link">Gabriel Hoffman</a>
 </h4>
             
-            <h4 data-toc-skip class="date">Run on 2022-02-03 15:33:37</h4>
+            <h4 data-toc-skip class="date">Run on 2022-02-03 20:00:22</h4>
       
       <small class="dont-index">Source: <a href="https://github.com/GabrielHoffman/crumblr/blob/HEAD/vignettes/crumblr.Rmd" class="external-link"><code>vignettes/crumblr.Rmd</code></a></small>
       <div class="hidden name"><code>crumblr.Rmd</code></div>

diff --git a/docs/articles/vst.html b/docs/articles/vst.html
@@ -95,7 +95,7 @@
                         <h4 data-toc-skip class="author">Developed by <a href="http://gabrielhoffman.github.io/" class="external-link">Gabriel Hoffman</a>
 </h4>
             
-            <h4 data-toc-skip class="date">Run on 2022-02-03 15:33:47</h4>
+            <h4 data-toc-skip class="date">Run on 2022-02-03 20:00:28</h4>
       
       <small class="dont-index">Source: <a href="https://github.com/GabrielHoffman/crumblr/blob/HEAD/vignettes/vst.Rmd" class="external-link"><code>vignettes/vst.Rmd</code></a></small>
       <div class="hidden name"><code>vst.Rmd</code></div>
